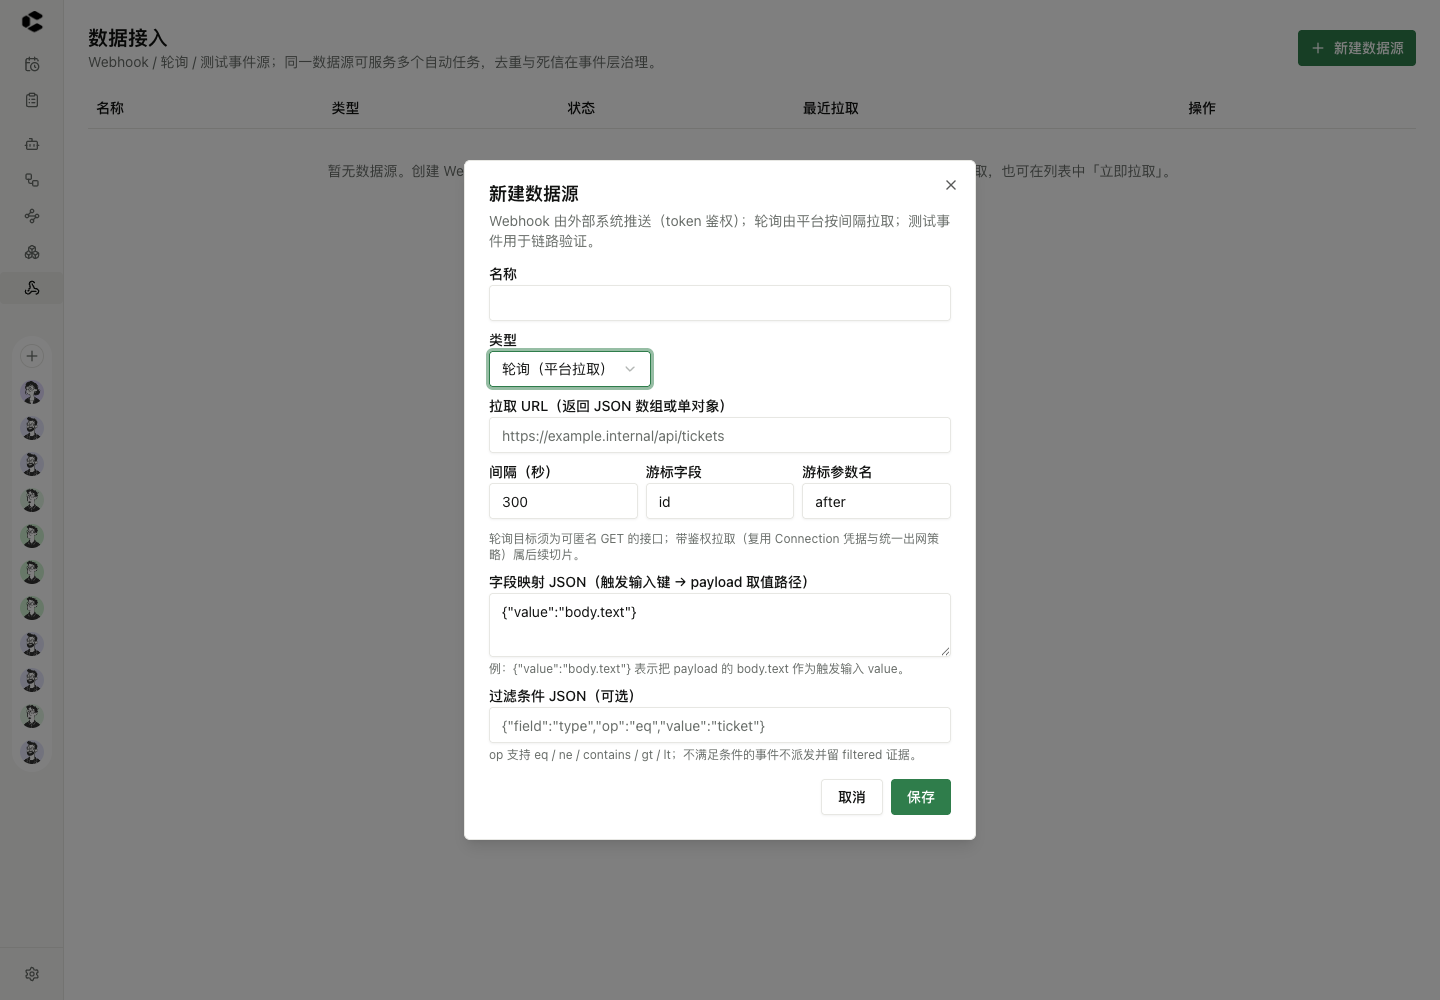
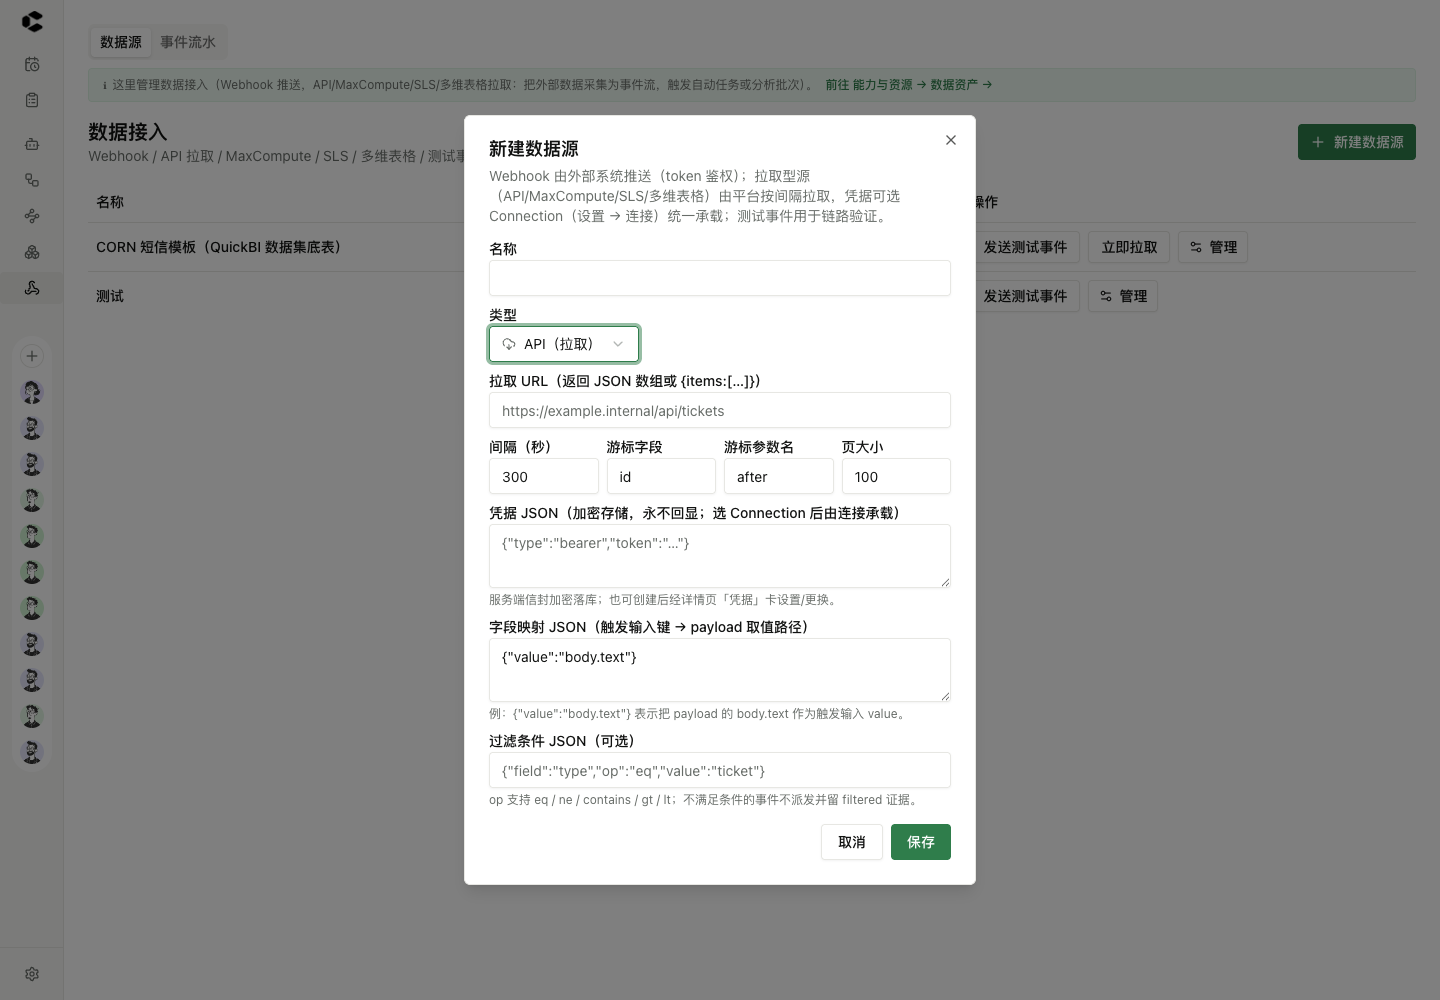
feat(IA终版修正): Connections=系统根凭据管理归设置; 数据接入文案对齐六型+D5; 修真bug两处
- 用户拍板: Connections 是系统最根的连接凭据管理, 不归能力与资源
  - 设置→连接 恢复为真实分区(系统根凭据: 端点/凭据/多环境/轮换/健康)
  - /settings/connections → SettingsPage(fixedSection); /resources/connections → 重定向
  - 能力与资源壳撤 Connections 磁贴与计数; ResConnectionsPage 删除
- 文案单一事实源(ui-terms)清理陈旧引用:
  - IA_BOUNDARY.assets 死链 ?tab=connections → /data-sources
  - 轮询→API 拉取/六型措辞; 数据资产=目录挂载表/对象, 凭据归设置→连接
  - GLOSSARY 同步(DataSource 六型/Connection 系统根定位)
- 真bug修复(data-sources.tsx):
  - 「立即拉取」按钮 s.kind==='polling' 死判断(g059 已改名 api_pull)→ PULL_KINDS 四型对齐后端
  - 事件流水状态图标/颜色大写键失配(后端小写)→ 全部投递恒显示 Clock+警告色; 改小写+中文状态标签
- scripts/audit_contrast.py: D1 拍板遗留(-text token 对)一并入库
- 证据: ia2-settings-connections/ia2-resources-shell 截图; 09-13 系列截图随门禁重拍
- 门禁: gate.sh --live 两遍全绿(pytest 587+vitest 76+tsc -b+build+lint+四层审计)

diff --git a/src/pages/data-sources.tsx b/src/pages/data-sources.tsx
@@ -1,6 +1,6 @@
 /**
- * 数据接入（2026-09-09 换底 §五-G；09-13 审计修复轮重写）：
- * webhook/polling/test_event 数据源管理。
+ * 数据接入（2026-09-09 换底 §五-G；09-13 审计修复轮重写；09-14 六型+D5）：
+ * webhook/api_pull/maxcompute/feishu_bitable/sls/test_event 数据源管理。
  * 事件管线：接收→去重→过滤→映射→路由派发；流水/死信见 /api/v2/event-deliveries。
  *
  * 09-13 审计修复：
@@ -13,11 +13,12 @@
  * - 测试事件错误分流：JSON 不合法 vs 后端拒绝分别提示；
  * - 表单 Label 全部 htmlFor/id 关联（可访问名称）；
  * - 空态文案去实现层语言；轮询源补「立即拉取」真实治理入口。
- * 诚实边界：轮询拉取暂不支持鉴权头（后端匿名 GET），表单如实说明，不摆假字段。
+ * 09-14 D5：拉取型凭据统一走 Connection（设置 → 连接）或源级凭据 JSON；
+ * 无凭据时后端如实匿名 GET，表单不摆假字段。
  */
 import * as React from "react"
 import { useNavigate, useSearchParams } from "react-router-dom"
-import { CircleCheck, CircleX, Clock, CloudDownload, Copy, Database, Filter, FlaskConical, OctagonAlert, Plus, RotateCw, ScrollText, Settings2, Table as TableIcon, Webhook } from "lucide-react"
+import { CircleCheck, CircleX, Clock, CloudDownload, Copy, Database, FlaskConical, OctagonAlert, Plus, RotateCw, ScrollText, Settings2, Table as TableIcon, Webhook } from "lucide-react"
 import { Badge } from "@/components/ui/badge"
 import { Button } from "@/components/ui/button"
 import {
@@ -67,6 +68,8 @@ const KIND_ICON = {
   webhook: Webhook, api_pull: CloudDownload, maxcompute: Database,
   feishu_bitable: TableIcon, sls: ScrollText, test_event: FlaskConical,
 } as const
+/* 与后端 source_adapters.PULL_KINDS 对齐：这四型支持「立即拉取」（POST /{sid}/poll） */
+const PULL_KINDS: readonly string[] = ["api_pull", "feishu_bitable", "maxcompute", "sls"]
 const STATUS_LABEL: Record<string, string> = {
   active: "活跃",
   paused: "已暂停",
@@ -309,7 +312,7 @@ export default function DataSourcesPage() {
   return (
     <div className="flex flex-col gap-4 p-4 md:p-6">
       {/* 09-14 终版 IA：数据接入只管事件接入=数据源+事件流水；
-          连接凭据归 能力与资源→连接，数据资产(含目录挂载)归 能力与资源→数据资产 */}
+          连接凭据归 设置→连接（系统根凭据管理），数据资产(含目录挂载)归 能力与资源→数据资产 */}
       <Tabs value={tab} onValueChange={(v) => { setTab(v); setSearchParams((p) => { const n = new URLSearchParams(p); if (v === "sources") n.delete("tab"); else n.set("tab", v); return n }, { replace: true }) }}>
         <TabsList>
           <TabsTrigger value="sources">数据源</TabsTrigger>
@@ -328,7 +331,7 @@ export default function DataSourcesPage() {
         <div>
           <h1 className="text-xl font-semibold">数据接入</h1>
           <p className="text-sm text-muted-foreground">
-            Webhook / 轮询 / 测试事件源；同一数据源可服务多个自动任务，去重与死信在事件层治理。
+            Webhook / API 拉取 / MaxCompute / SLS / 多维表格 / 测试事件源；同一数据源可服务多个自动任务，去重与死信在事件层治理。
           </p>
         </div>
         <Button className="ml-auto" onClick={() => setOpen(true)}>
@@ -341,7 +344,7 @@ export default function DataSourcesPage() {
           <DialogHeader>
             <DialogTitle>新建数据源</DialogTitle>
             <DialogDescription>
-              Webhook 由外部系统推送（token 鉴权）；轮询由平台按间隔拉取；测试事件用于链路验证。
+              Webhook 由外部系统推送（token 鉴权）；拉取型源（API/MaxCompute/SLS/多维表格）由平台按间隔拉取，凭据可选 Connection（设置 → 连接）统一承载；测试事件用于链路验证。
             </DialogDescription>
           </DialogHeader>
           <div className="grid gap-3">
@@ -628,7 +631,7 @@ export default function DataSourcesPage() {
                     <Button size="sm" variant="outline" onClick={() => setTestTarget(s.id)}>
                       发送测试事件
                     </Button>
-                    {s.kind === "polling" && (
+                    {PULL_KINDS.includes(s.kind) && (
                       <Button size="sm" variant="outline" disabled={polling === s.id}
                               onClick={() => void pollNow(s)}>
                         {polling === s.id ? "拉取中…" : "立即拉取"}
@@ -647,7 +650,7 @@ export default function DataSourcesPage() {
               <TableRow>
                 <TableCell colSpan={5} className="py-8 text-center text-sm text-muted-foreground">
                   暂无数据源。创建 Webhook 源后可用「发送测试事件」验证接入链路；
-                  轮询源由平台按设定间隔自动拉取，也可在列表中「立即拉取」。
+                  拉取型源由平台按设定间隔自动拉取，也可在列表中「立即拉取」。
                 </TableCell>
               </TableRow>
             )}
@@ -700,9 +703,15 @@ export default function DataSourcesPage() {
 /** 09-14 冗余整合：事件流水 tab——跨源 EventDelivery 一览（状态/重试/死信证据）。 */
 function EventsTab() {
   const deliveries = useAsyncData(() => asApi.eventDeliveries({ pageSize: 100 }), [])
+  /* 后端 EventDelivery.status 为小写（pending/running/completed/failed/dead）；
+     filtered/deduped 不产生投递行（F5 AC-023/024），故不在此表 */
   const ICON: Record<string, typeof Clock> = {
-    COMPLETED: CircleCheck, FAILED: CircleX, DEAD: OctagonAlert,
-    RUNNING: Clock, PENDING: Clock, FILTERED: Filter, DEDUPED: Copy,
+    completed: CircleCheck, failed: CircleX, dead: OctagonAlert,
+    running: Clock, pending: Clock,
+  }
+  const LABEL: Record<string, string> = {
+    pending: "待投递", running: "投递中", completed: "已投递",
+    failed: "失败（待重试）", dead: "死信",
   }
   return (
     <div className="flex flex-col gap-3">
@@ -712,7 +721,7 @@ function EventsTab() {
         </div>
       ) : (deliveries.data?.items ?? []).length === 0 ? (
         <p className="rounded-md border border-dashed px-3 py-8 text-center text-sm text-muted-foreground">
-          暂无事件流水。Webhook/轮询源收到事件后，每条命中路由会产生一条投递记录（含重试与死信证据）。
+          暂无事件流水。数据源产生事件后，每条命中路由会产生一条投递记录（含重试与死信证据；filtered/deduped 不留投递行，证据在事件 route_outcomes）。
         </p>
       ) : (
         <table className="w-full border-collapse bg-card text-[12.5px]" style={{ border: "1px solid var(--border)" }}>
@@ -736,8 +745,8 @@ function EventsTab() {
                   </td>
                   <td className="px-3 py-2">
                     <span className="inline-flex items-center gap-1.5">
-                      <Icon className="size-3.5" style={{ color: d.status === "COMPLETED" ? "var(--status-success-text)" : d.status === "DEAD" || d.status === "FAILED" ? "var(--status-danger-text)" : d.status === "FILTERED" || d.status === "DEDUPED" ? "var(--text-tertiary)" : "var(--status-warning-text)" }} />
-                      {d.status}
+                      <Icon className="size-3.5" style={{ color: d.status === "completed" ? "var(--status-success-text)" : d.status === "dead" || d.status === "failed" ? "var(--status-danger-text)" : "var(--status-warning-text)" }} />
+                      {LABEL[d.status] ?? d.status}
                     </span>
                   </td>
                   <td className="px-3 py-2">

diff --git a/src/app.tsx b/src/app.tsx
@@ -38,7 +38,6 @@ const ResModelsPage = lazy(() => import("@/pages/res-category-pages").then((m) =
 const ResToolsPage = lazy(() => import("@/pages/res-category-pages").then((m) => ({ default: m.ResToolsPage })))
 const ResKnowledgePage = lazy(() => import("@/pages/res-category-pages").then((m) => ({ default: m.ResKnowledgePage })))
 const ResDataPage = lazy(() => import("@/pages/res-category-pages").then((m) => ({ default: m.ResDataPage })))
-const ResConnectionsPage = lazy(() => import("@/pages/res-category-pages").then((m) => ({ default: m.ResConnectionsPage })))
 const AuditLogPage = lazy(() => import("@/pages/audit-log"))
 const ReleaseGovernancePage = lazy(() => import("@/pages/release-governance"))
 const ResultRulesPage = lazy(() => import("@/pages/result-rules"))
@@ -138,6 +137,7 @@ export function App() {
           <Route path="/agents/:agentId/chat" element={<AgentChatPage />} />
           <Route path="/agents/:agentId/:section" element={<WfAgentEditorPage />} />
           {/* 能力与资源持久壳（docs/v2-design/10）：五分类壳内切换 */}
+          <Route path="/resources/connections" element={<Navigate to="/settings/connections" replace />} />
           <Route path="/resources" element={<ResourcesShell />}>
             <Route index element={<Navigate to="/resources/skills" replace />} />
             <Route path="skills" element={<ResSkillsPage />} />
@@ -145,7 +145,6 @@ export function App() {
             <Route path="tools" element={<ResToolsPage />} />
             <Route path="knowledge" element={<ResKnowledgePage />} />
             <Route path="data" element={<ResDataPage />} />
-            <Route path="connections" element={<ResConnectionsPage />} />
           </Route>
           {/* Workflow */}
           <Route path="/workflows" element={<WfWorkflowsPage />} />
@@ -188,7 +187,7 @@ export function App() {
           <Route path="/config/forms/*" element={<PrefixRedirect from="/config/forms" to="/workflows/forms" />} />
           <Route path="/resources/rules/*" element={<PrefixRedirect from="/resources/rules" to="/workflows/rules" />} />
           <Route path="/resources/forms/*" element={<PrefixRedirect from="/resources/forms" to="/workflows/forms" />} />
-          <Route path="/settings/connections" element={<Navigate to="/resources/connections" replace />} />
+          <Route path="/settings/connections" element={<SettingsPage fixedSection="connections" />} />
           <Route path="/config/tools" element={<Navigate to="/resources/ai?tab=tools" replace />} />
           <Route path="/config/tools/new" element={<Navigate to="/resources/ai/new" replace />} />
           <Route path="/config/tools/:toolId" element={<ToolRedirect />} />

diff --git a/src/config/ui-terms.ts b/src/config/ui-terms.ts
@@ -44,28 +44,28 @@ export const UI_TERMS = {
   },
 } as const
 
-/** 09-14 D4 拍板：双「数据源」概念边界说明（文案单一事实源；不动导航不改名）。 */
+/** 09-14 D4 拍板 + IA 终版（Connections=设置系统根凭据）：概念边界说明（文案单一事实源）。 */
 export const IA_BOUNDARY = {
   ingress: {
-    text: "这里管理事件入口（Webhook/轮询：外部系统把事件推给平台，触发自动任务或分析批次）。",
+    text: "这里管理数据接入（Webhook 推送，API/MaxCompute/SLS/多维表格拉取：把外部数据采集为事件流，触发自动任务或分析批次）。",
     linkText: "前往 能力与资源 → 数据资产 →",
     to: "/resources/data",
   },
   assets: {
-    text: "这里管理数据资产（数据库连接与表/对象，供分析任务读取与写回）。",
-    linkText: "Webhook/轮询等事件入口在 数据接入 → 管理",
-    to: "/data-sources?tab=connections",
+    text: "这里管理数据资产（目录发现挂载的表/对象，供分析任务读取与写回；凭据统一在 设置 → 连接 管理）。",
+    linkText: "Webhook/API 拉取等事件入口在 数据接入 → 管理",
+    to: "/data-sources",
   },
 } as const
 
 /** 09-14 D4 拍板：术语表样张落地（新文案一律从表取；含已拍板分词）。 */
 export const GLOSSARY: readonly { zh: string; en: string; scope: string; note: string }[] = [
   { zh: "数据源（事件）", en: "DataSource", scope: "数据接入 /api/v2/data-sources",
-    note: "Webhook/轮询/测试事件入口；产出 SourceEvent，经 EventRoute 派发" },
+    note: "Webhook/API 拉取/MaxCompute/SLS/多维表格/测试事件入口；产出 SourceEvent，经 EventRoute 派发" },
   { zh: "数据资产", en: "Datasource + DataAsset", scope: "能力与资源 → 数据资产",
-    note: "数据库连接与表/对象；禁止再译作「数据源」" },
-  { zh: "连接（凭据）", en: "Connection", scope: "设置 → 连接",
-    note: "协议端点+加密凭据+多环境；Secret 永不回显" },
+    note: "目录发现挂载的表/对象；凭据引用 Connection（设置 → 连接）；禁止再译作「数据源」" },
+  { zh: "连接（凭据）", en: "Connection", scope: "设置 → 连接（系统根凭据管理）",
+    note: "协议端点+加密凭据+多环境+轮换/健康；一切资产与接入的凭据单点；Secret 永不回显" },
   { zh: "自动任务", en: "AutomationDefinition", scope: "导航「自动任务」",
     note: "一次触发→一次 Invocation→一个执行体；不套批次" },
   { zh: "分析任务", en: "AnalysisTask", scope: "任务域 /batch-tasks",

diff --git a/src/components/app/resources-shell.tsx b/src/components/app/resources-shell.tsx
@@ -1,12 +1,12 @@
 import { useEffect, useState } from "react"
 import { NavLink, Outlet, useLocation } from "react-router-dom"
-import { Link2, BookOpen, Database, Sparkles, Cpu, Wrench } from "lucide-react"
+import { BookOpen, Database, Sparkles, Cpu, Wrench } from "lucide-react"
 
 import { PageContainer, PageHeader } from "@/components/app/page"
 import { cn } from "@/lib/utils"
 import { UI_TERMS } from "@/config/ui-terms"
 import { pagedApi } from "@/services/wf-api"
-import { connApi, resApi } from "@/services/resource-api"
+import { resApi } from "@/services/resource-api"
 
 /** docs/v2-design/10 §3：壳磁贴行常驻计数（原 Hub 门厅计数职能接管）。 */
 interface ShellCounts {
@@ -18,13 +18,11 @@ interface ShellCounts {
   knowledge: number | null
   datasources: number | null
   assets: number | null
-  connections: number | null
 }
 
 const EMPTY: ShellCounts = {
   skills: null, providers: null, models: null, tools: null,
   mcp: null, knowledge: null, datasources: null, assets: null,
-  connections: null,
 }
 
 const n = (v: number | null) => (v == null ? "—" : String(v))
@@ -42,13 +40,11 @@ export function useShellCounts(): ShellCounts {
       safe(resApi.list("knowledge", { page: 1, pageSize: 1 })),
       safe(resApi.list("datasource", { page: 1, pageSize: 1 })),
       safe(resApi.list("asset", { page: 1, pageSize: 1 })),
-      safe(connApi.list({})),
-    ]).then(([sk, pv, md, tl, mcp, kn, ds, as, cn]) => {
+    ]).then(([sk, pv, md, tl, mcp, kn, ds, as]) => {
       setC({
         skills: sk?.total ?? null, providers: pv?.total ?? null, models: md?.total ?? null,
         tools: tl?.total ?? null, mcp: mcp?.total ?? null, knowledge: kn?.total ?? null,
         datasources: ds?.total ?? null, assets: as?.total ?? null,
-        connections: cn?.total ?? null,
       })
     })
   }, [])
@@ -84,11 +80,6 @@ export function ResourcesShell() {
     {
       to: "/resources/data", icon: Database, label: UI_TERMS.navigation.dataAssetsHub,
       count: `源 ${n(c.datasources)} · 资产 ${n(c.assets)}`,
-    },
-    {
-      // 09-14 终版 IA：凭据/端点唯一归属=能力与资源→连接
-      to: "/resources/connections", icon: Link2, label: "连接",
-      count: `凭据 ${n(c.connections ?? 0)} · 多环境/轮换/健康`,
     },
   ]
 

diff --git a/src/pages/settings.tsx b/src/pages/settings.tsx
@@ -1,5 +1,5 @@
 import { useEffect, useState, type ComponentType } from "react"
-import {
+import { Link2,
   ArrowLeft,
   Check,
   Info,
@@ -12,6 +12,7 @@ import {
   Sunrise,
   MoonStar,
 } from "lucide-react"
+import { WfConnectionsContent } from "./wf-connections"
 import { Link, useNavigate, useSearchParams } from "react-router-dom"
 import { useTheme } from "next-themes"
 import { Badge } from "@/components/ui/badge"
@@ -35,8 +36,9 @@ interface SettingsSection {
 // 入口不得伪装成已开放；保留全部真实分区。
 const SECTIONS: SettingsSection[] = [
   { id: "appearance", label: "外观", icon: Palette },
-  // 09-14 用户拍板（冗余整合）：连接与目录并入「数据接入」单入口三 tab；
-  // /settings/connections 路由重定向到 /data-sources?tab=connections
+  // 09-14 终版（用户再纠正）：Connections=系统根凭据管理，归设置（系统层），
+  // 与权限与安全/审计同级；能力与资源只放建于连接之上的数据资产
+  { id: "connections", label: "连接", icon: Link2 },
   { id: "security", label: "权限与安全", icon: ShieldCheck },
   { id: "audit", label: "审计", icon: ScrollText },
   { id: "system", label: "系统信息", icon: Info },
@@ -251,10 +253,12 @@ export default function SettingsPage({ fixedSection }: { fixedSection?: string }
               {current.id === "appearance" && "语言、主题等全局生效的个人偏好。"}
 
               {current.id === "security" && "当前身份与前端权限矩阵。"}
+              {current.id === "connections" && "系统根连接凭据管理：端点/凭据/多环境/轮换/健康；一切数据资产与接入的凭据单点。"}
               {current.id === "audit" && "平台关键操作的审计记录。"}
               {current.id === "system" && "当前前端实例的真实运行信息。"}
             </p>
           </header>
+          {section === "connections" && <WfConnectionsContent embedded />}
           {section === "appearance" && <AppearanceSection />}
 
           {section === "security" && <SecuritySection />}

diff --git a/src/pages/res-category-pages.tsx b/src/pages/res-category-pages.tsx
@@ -1,5 +1,4 @@
 import { useEffect, useState } from "react"
-import { WfConnectionsContent } from "@/pages/wf-connections"
 import { Pencil, Plus, Trash2 } from "lucide-react"
 import { toast } from "sonner"
 
@@ -64,11 +63,6 @@ export function ResKnowledgePage() {
       <ResCategoryList types={["knowledge"]} createTo="/resources/ai/new" />
     </div>
   )
-}
-
-/** 09-14 终版 IA：连接唯一归属=能力与资源→连接（凭据/多环境/轮换/健康）。 */
-export function ResConnectionsPage() {
-  return <WfConnectionsContent embedded />
 }
 
 /** 09-14 终版 IA：目录挂载唯一入口=数据资产页（连接选→目录选→挂载）。 */

diff --git a/scripts/audit_contrast.py b/scripts/audit_contrast.py
@@ -26,15 +26,17 @@ PAIRS = [
     ("--text-secondary", "--surface", 4.5, "卡片上次级文本"),
     ("--text-tertiary", "--background", 4.5, "辅助小字（时间戳/说明）"),
     ("--text-tertiary", "--surface", 4.5, "卡片上辅助小字"),
-    ("--status-success", "--surface", 4.5, "成功状态文本"),
-    ("--status-warning", "--surface", 4.5, "警告状态文本"),
-    ("--status-danger", "--surface", 4.5, "危险状态文本"),
+    # 09-14 D1 拍板后：文本/徽章字色读 -text token；原站值仅作图标/色点/图表
+    # （非文本且邻接文本已传达语义，WCAG 豁免，不再入门禁）
+    ("--status-success-text", "--surface", 4.5, "成功状态文本"),
+    ("--status-warning-text", "--surface", 4.5, "警告状态文本"),
+    ("--status-danger-text", "--surface", 4.5, "危险状态文本"),
     ("--brand-primary", "--background", 4.5, "品牌绿文本/链接"),
     ("--selected-foreground", "--selected", 4.5, "导航选中态文本"),
     # 真实徽章形态：状态色文本落在同族 soft 背景上（StateBadge/LANE_CHIP 实际用法）
-    ("--status-success", "--status-success-soft", 4.5, "成功徽章文本(soft底)"),
-    ("--status-warning", "--status-warning-soft", 4.5, "警告徽章文本(soft底)"),
-    ("--status-danger", "--status-danger-soft", 4.5, "危险徽章文本(soft底)"),
+    ("--status-success-text", "--status-success-soft", 4.5, "成功徽章文本(soft底)"),
+    ("--status-warning-text", "--status-warning-soft", 4.5, "警告徽章文本(soft底)"),
+    ("--status-danger-text", "--status-danger-soft", 4.5, "危险徽章文本(soft底)"),
     ("--text-secondary", "--fill-secondary", 3.0, "填充徽章文本(大字级)"),
     ("--border", "--background", 3.0, "边框非文本对比"),
 ]
